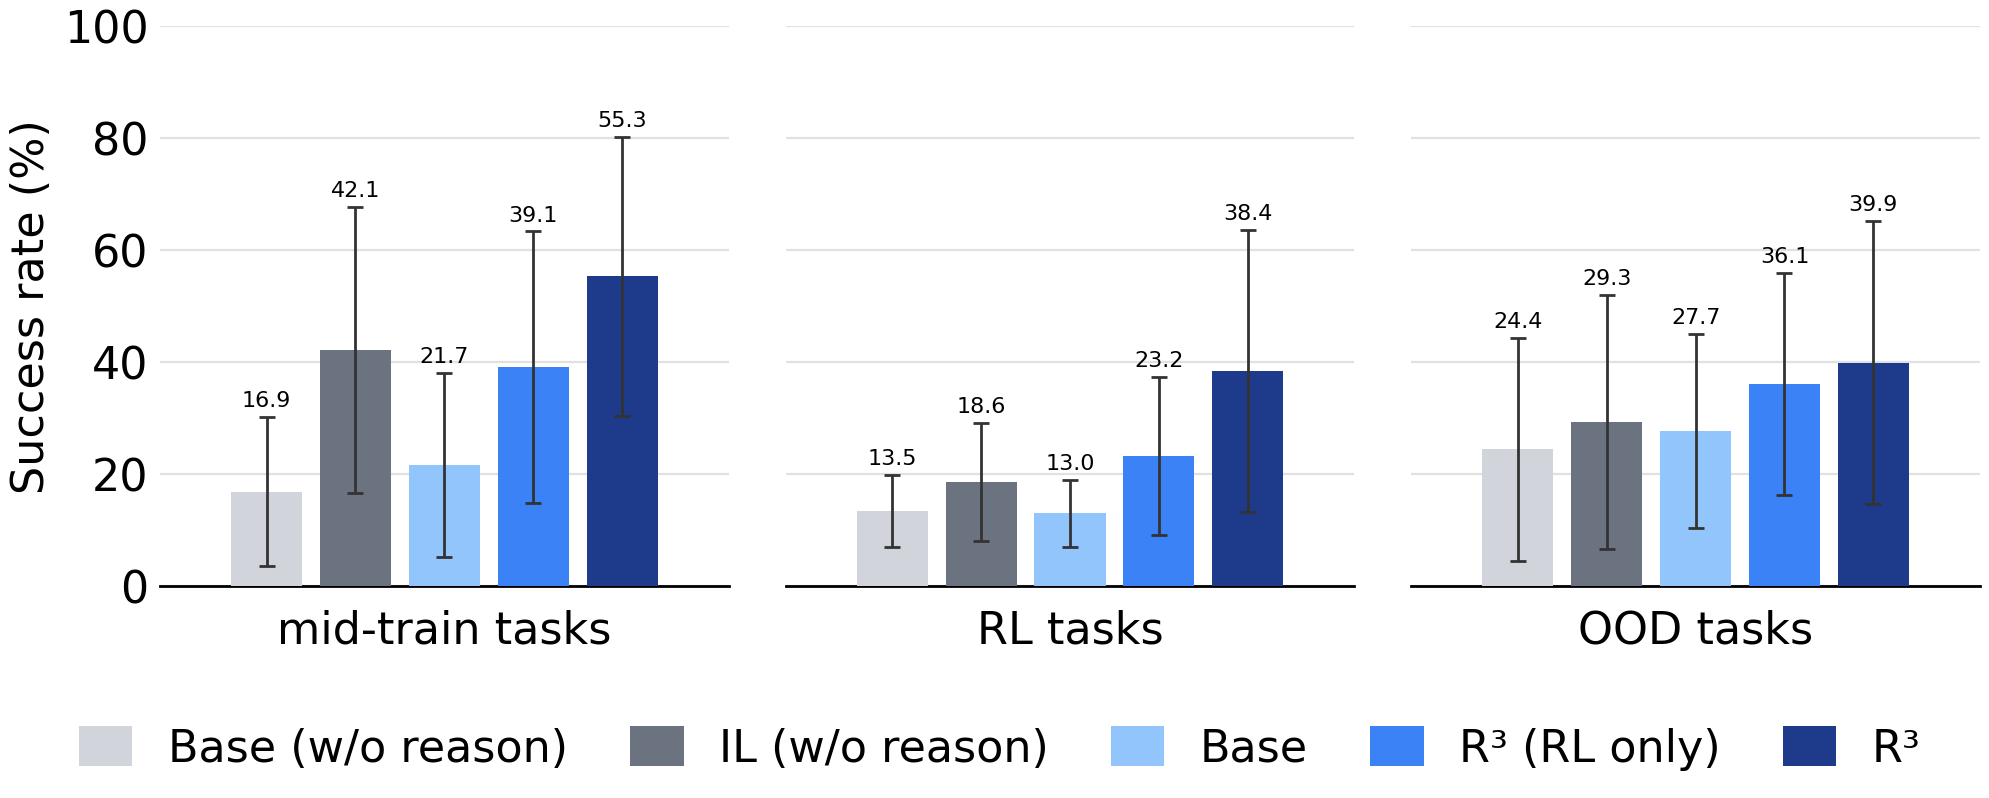
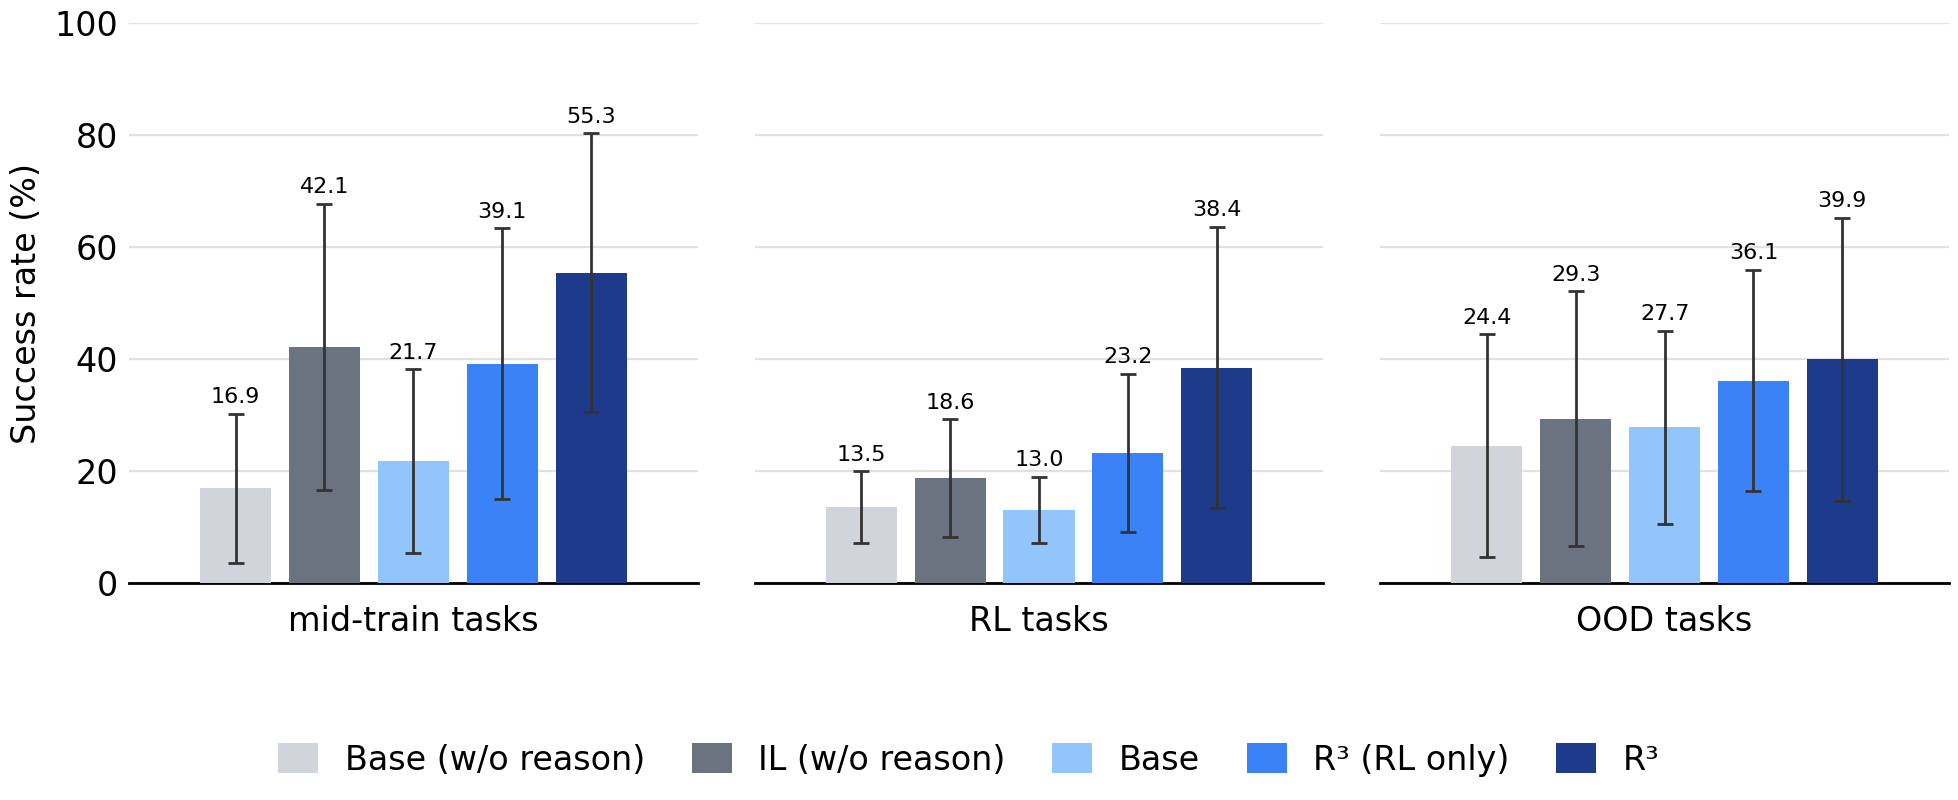
add main result table

diff --git a/static/js/index.js b/static/js/index.js
@@ -1,9 +1,7 @@
-function toggleExpandable(panelId, toggleButtonSelector, toggleTextSelector, options = {}) {
-    const panel = document.getElementById(panelId);
-    const toggleButton = document.querySelector(toggleButtonSelector);
-    const toggleText = document.querySelector(toggleTextSelector);
-    const collapsedLabel = options.collapsedLabel || 'Click to View More';
-    const expandedLabel = options.expandedLabel || 'Click to View Less';
+function toggleExpandable(panel, toggleButton, toggleText, options) {
+    options = options || {};
+    var collapsedLabel = options.collapsedLabel || 'Click to View More';
+    var expandedLabel = options.expandedLabel || 'Click to View Less';
 
     if (!panel || !toggleButton || !toggleText) {
         return;
@@ -12,20 +10,50 @@ function toggleExpandable(panelId, toggleButtonSelector, toggleTextSelector, opt
     if (panel.classList.contains('expanded')) {
         panel.classList.remove('expanded');
         toggleButton.classList.remove('expanded');
+        toggleButton.setAttribute('aria-expanded', 'false');
         toggleText.textContent = collapsedLabel;
     } else {
         panel.classList.add('expanded');
         toggleButton.classList.add('expanded');
+        toggleButton.setAttribute('aria-expanded', 'true');
         toggleText.textContent = expandedLabel;
     }
 }
 
+function setupExpandable(panelId, toggleButtonId, toggleTextSelector, options) {
+    var panel = document.getElementById(panelId);
+    var toggleButton = document.getElementById(toggleButtonId);
+    var toggleText = toggleButton ? toggleButton.querySelector(toggleTextSelector) : null;
+
+    if (!panel || !toggleButton || !toggleText) {
+        return;
+    }
+
+    var handler = function(event) {
+        if (event) {
+            event.preventDefault();
+        }
+        toggleExpandable(panel, toggleButton, toggleText, options);
+    };
+
+    toggleButton.addEventListener('click', handler);
+    panel.querySelectorAll('[data-expandable-close]').forEach(function(closeButton) {
+        closeButton.addEventListener('click', handler);
+    });
+}
+
 function toggleRollouts() {
-    toggleExpandable('rolloutsPanel', '#rolloutsToggle', '.rollout-toggle-text');
+    var panel = document.getElementById('rolloutsPanel');
+    var toggleButton = document.getElementById('rolloutsToggle');
+    var toggleText = toggleButton ? toggleButton.querySelector('.rollout-toggle-text') : null;
+    toggleExpandable(panel, toggleButton, toggleText);
 }
 
 function toggleMainResultsTable() {
-    toggleExpandable('mainResultsTablePanel', '#mainResultsTableToggle', '.main-results-table-toggle-text', {
+    var panel = document.getElementById('mainResultsTablePanel');
+    var toggleButton = document.getElementById('mainResultsTableToggle');
+    var toggleText = toggleButton ? toggleButton.querySelector('.main-results-table-toggle-text') : null;
+    toggleExpandable(panel, toggleButton, toggleText, {
         collapsedLabel: 'View detailed per-task numbers',
         expandedLabel: 'Hide detailed table',
     });
@@ -235,4 +263,9 @@ class NavigationManager {
 // Initialize Navigation when DOM is loaded
 document.addEventListener('DOMContentLoaded', () => {
     new NavigationManager();
+    setupExpandable('mainResultsTablePanel', 'mainResultsTableToggle', '.main-results-table-toggle-text', {
+        collapsedLabel: 'View detailed per-task numbers',
+        expandedLabel: 'Hide detailed table',
+    });
+    setupExpandable('rolloutsPanel', 'rolloutsToggle', '.rollout-toggle-text');
 });

diff --git a/index.html b/index.html
@@ -15,7 +15,7 @@
   <link rel="stylesheet" href="./static/css/index.css">
 
   <script src="https://ajax.googleapis.com/ajax/libs/jquery/3.5.1/jquery.min.js"></script>
-  <script src="./static/js/index.js"></script>
+  <script src="./static/js/index.js" defer></script>
 </head>
 
 <body>
@@ -266,30 +266,30 @@
                   <img src="./static/images/main_results_bar_chart.png" alt="Main results: average success rates across methods">
                   <figcaption>
                     <b>Main results.</b>
-                    Average success rates on mid-training, RL, and held-out OOD task splits across baselines and R³ variants.
+                    Average success rates on 6 mid-training tasks, 3 RL-only tasks, and 5 held-out OOD task splits across baselines and R³ variants. For detailed per-task numbers, see the table below.
                   </figcaption>
                 </figure>
+              </div>
 
-                <div class="expandable-container">
-                  <button id="mainResultsTableToggle" class="expandable-toggle button is-small is-outlined" onclick="toggleMainResultsTable()">
-                    <span class="main-results-table-toggle-text">View detailed per-task numbers</span>
-                    <span class="icon"><i class="fas fa-chevron-down main-results-table-toggle-icon"></i></span>
-                  </button>
-                  <div class="expandable-panel" id="mainResultsTablePanel">
-                    <div class="expandable-content">
-                      <figure class="paper-figure" style="--fig-width: 100%;">
-                        <img src="./static/images/main_results_table.png" alt="Main results: per-task success rates">
-                        <figcaption>
-                          <b>Per-task success rates.</b>
-                          Full results table with per-task success rates across all methods.
-                        </figcaption>
-                      </figure>
-                      <div class="expandable-close-container">
-                        <button class="expandable-close button is-small is-outlined" onclick="toggleMainResultsTable()">
-                          <span class="icon"><i class="fas fa-chevron-up"></i></span>
-                          <span>Close</span>
-                        </button>
-                      </div>
+              <div class="expandable-container">
+                <button id="mainResultsTableToggle" type="button" class="expandable-toggle button is-small is-outlined" aria-expanded="false" aria-controls="mainResultsTablePanel">
+                  <span class="main-results-table-toggle-text">View detailed per-task numbers</span>
+                  <span class="icon"><i class="fas fa-chevron-down main-results-table-toggle-icon"></i></span>
+                </button>
+                <div class="expandable-panel" id="mainResultsTablePanel">
+                  <div class="expandable-content">
+                    <figure class="paper-figure" style="--fig-width: 100%;">
+                      <img src="./static/images/main_results_table.png" alt="Main results: per-task success rates">
+                      <figcaption>
+                        <b>Per-task success rates.</b>
+                        Full results table with per-task success rates across all methods.
+                      </figcaption>
+                    </figure>
+                    <div class="expandable-close-container">
+                      <button type="button" class="expandable-close button is-small is-outlined" data-expandable-close>
+                        <span class="icon"><i class="fas fa-chevron-up"></i></span>
+                        <span>Close</span>
+                      </button>
                     </div>
                   </div>
                 </div>
@@ -376,7 +376,7 @@
             <p class="rollout-note">Here we show 2 successful evaluation rollouts for each of the 14 Language Table tasks.</p>
 
             <div class="expandable-container">
-              <button id="rolloutsToggle" class="expandable-toggle button is-small is-outlined" onclick="toggleRollouts()">
+              <button id="rolloutsToggle" type="button" class="expandable-toggle button is-small is-outlined" aria-expanded="false" aria-controls="rolloutsPanel">
                 <span class="rollout-toggle-text">Click to View More</span>
                 <span class="icon"><i class="fas fa-chevron-down rollout-toggle-icon"></i></span>
               </button>
@@ -608,7 +608,7 @@
                   </div>
 
                   <div class="expandable-close-container">
-                    <button class="expandable-close button is-small is-outlined" onclick="toggleRollouts()">
+                    <button type="button" class="expandable-close button is-small is-outlined" data-expandable-close>
                       <span class="icon"><i class="fas fa-chevron-up"></i></span>
                       <span>Close</span>
                     </button>

diff --git a/static/css/index.css b/static/css/index.css
@@ -447,7 +447,8 @@ body {
 }
 
 .expandable-panel.expanded {
-  max-height: none;
+  max-height: 8000px;
+  overflow: visible;
   transition: max-height 0.4s ease-in;
 }
 